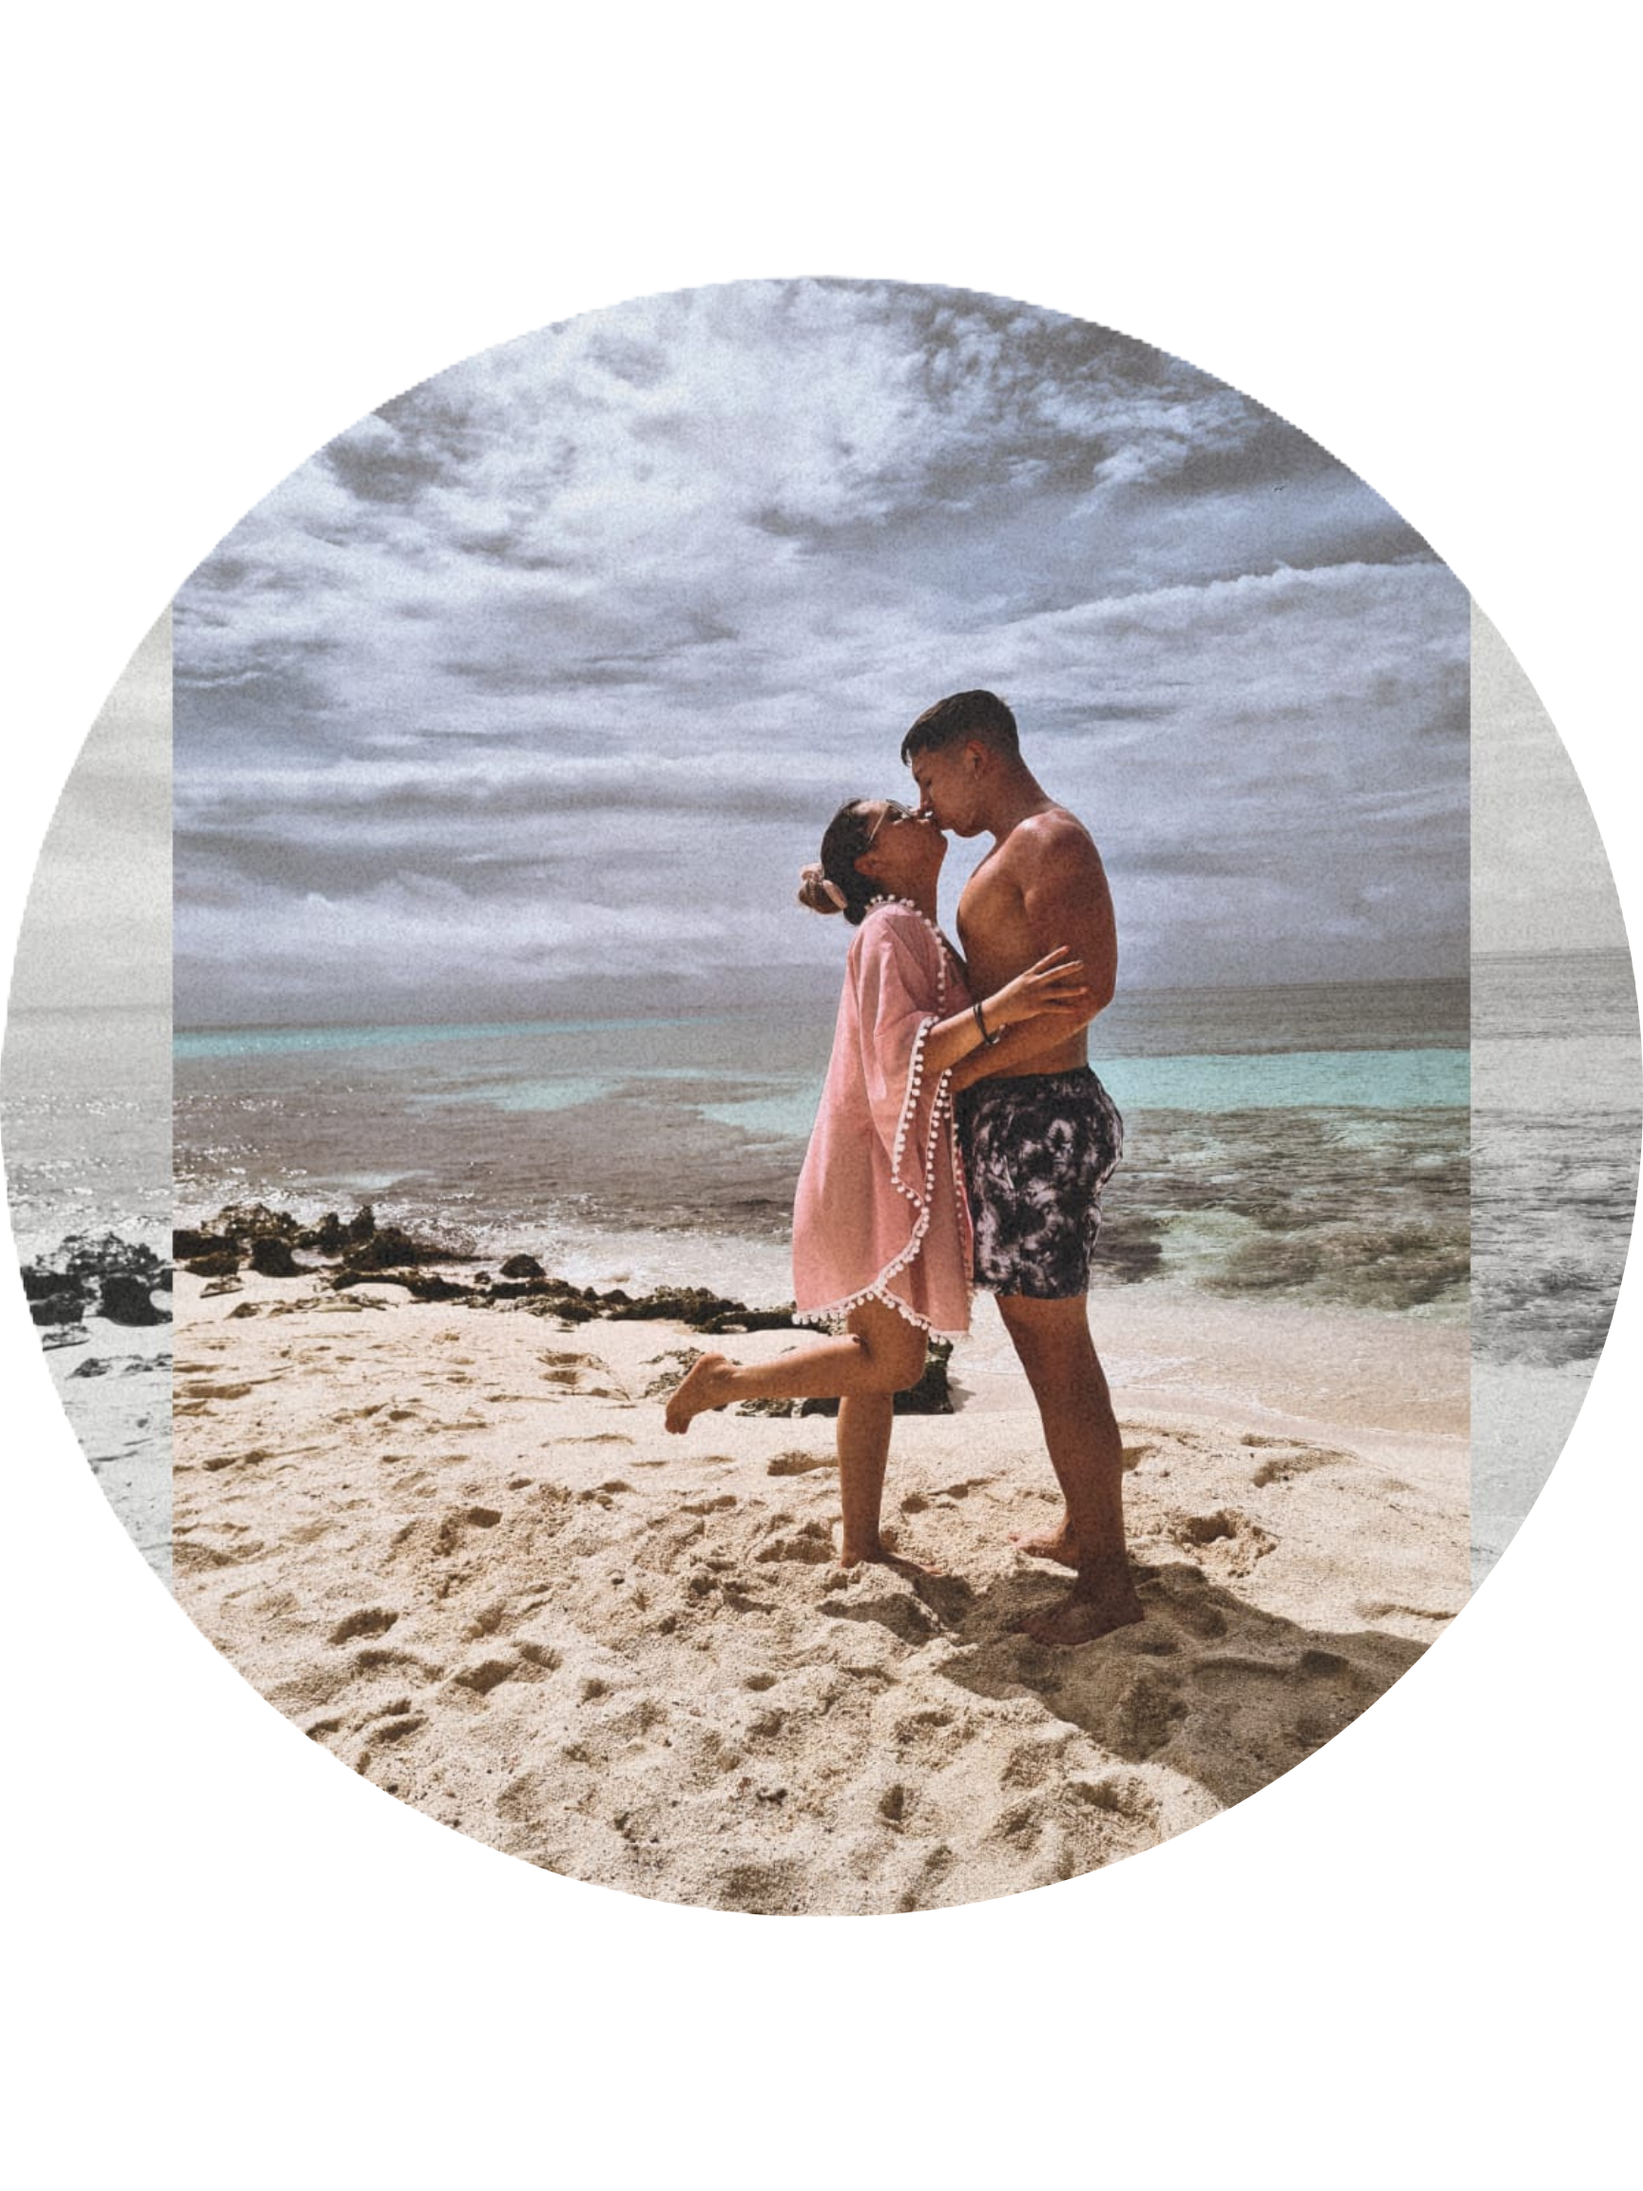
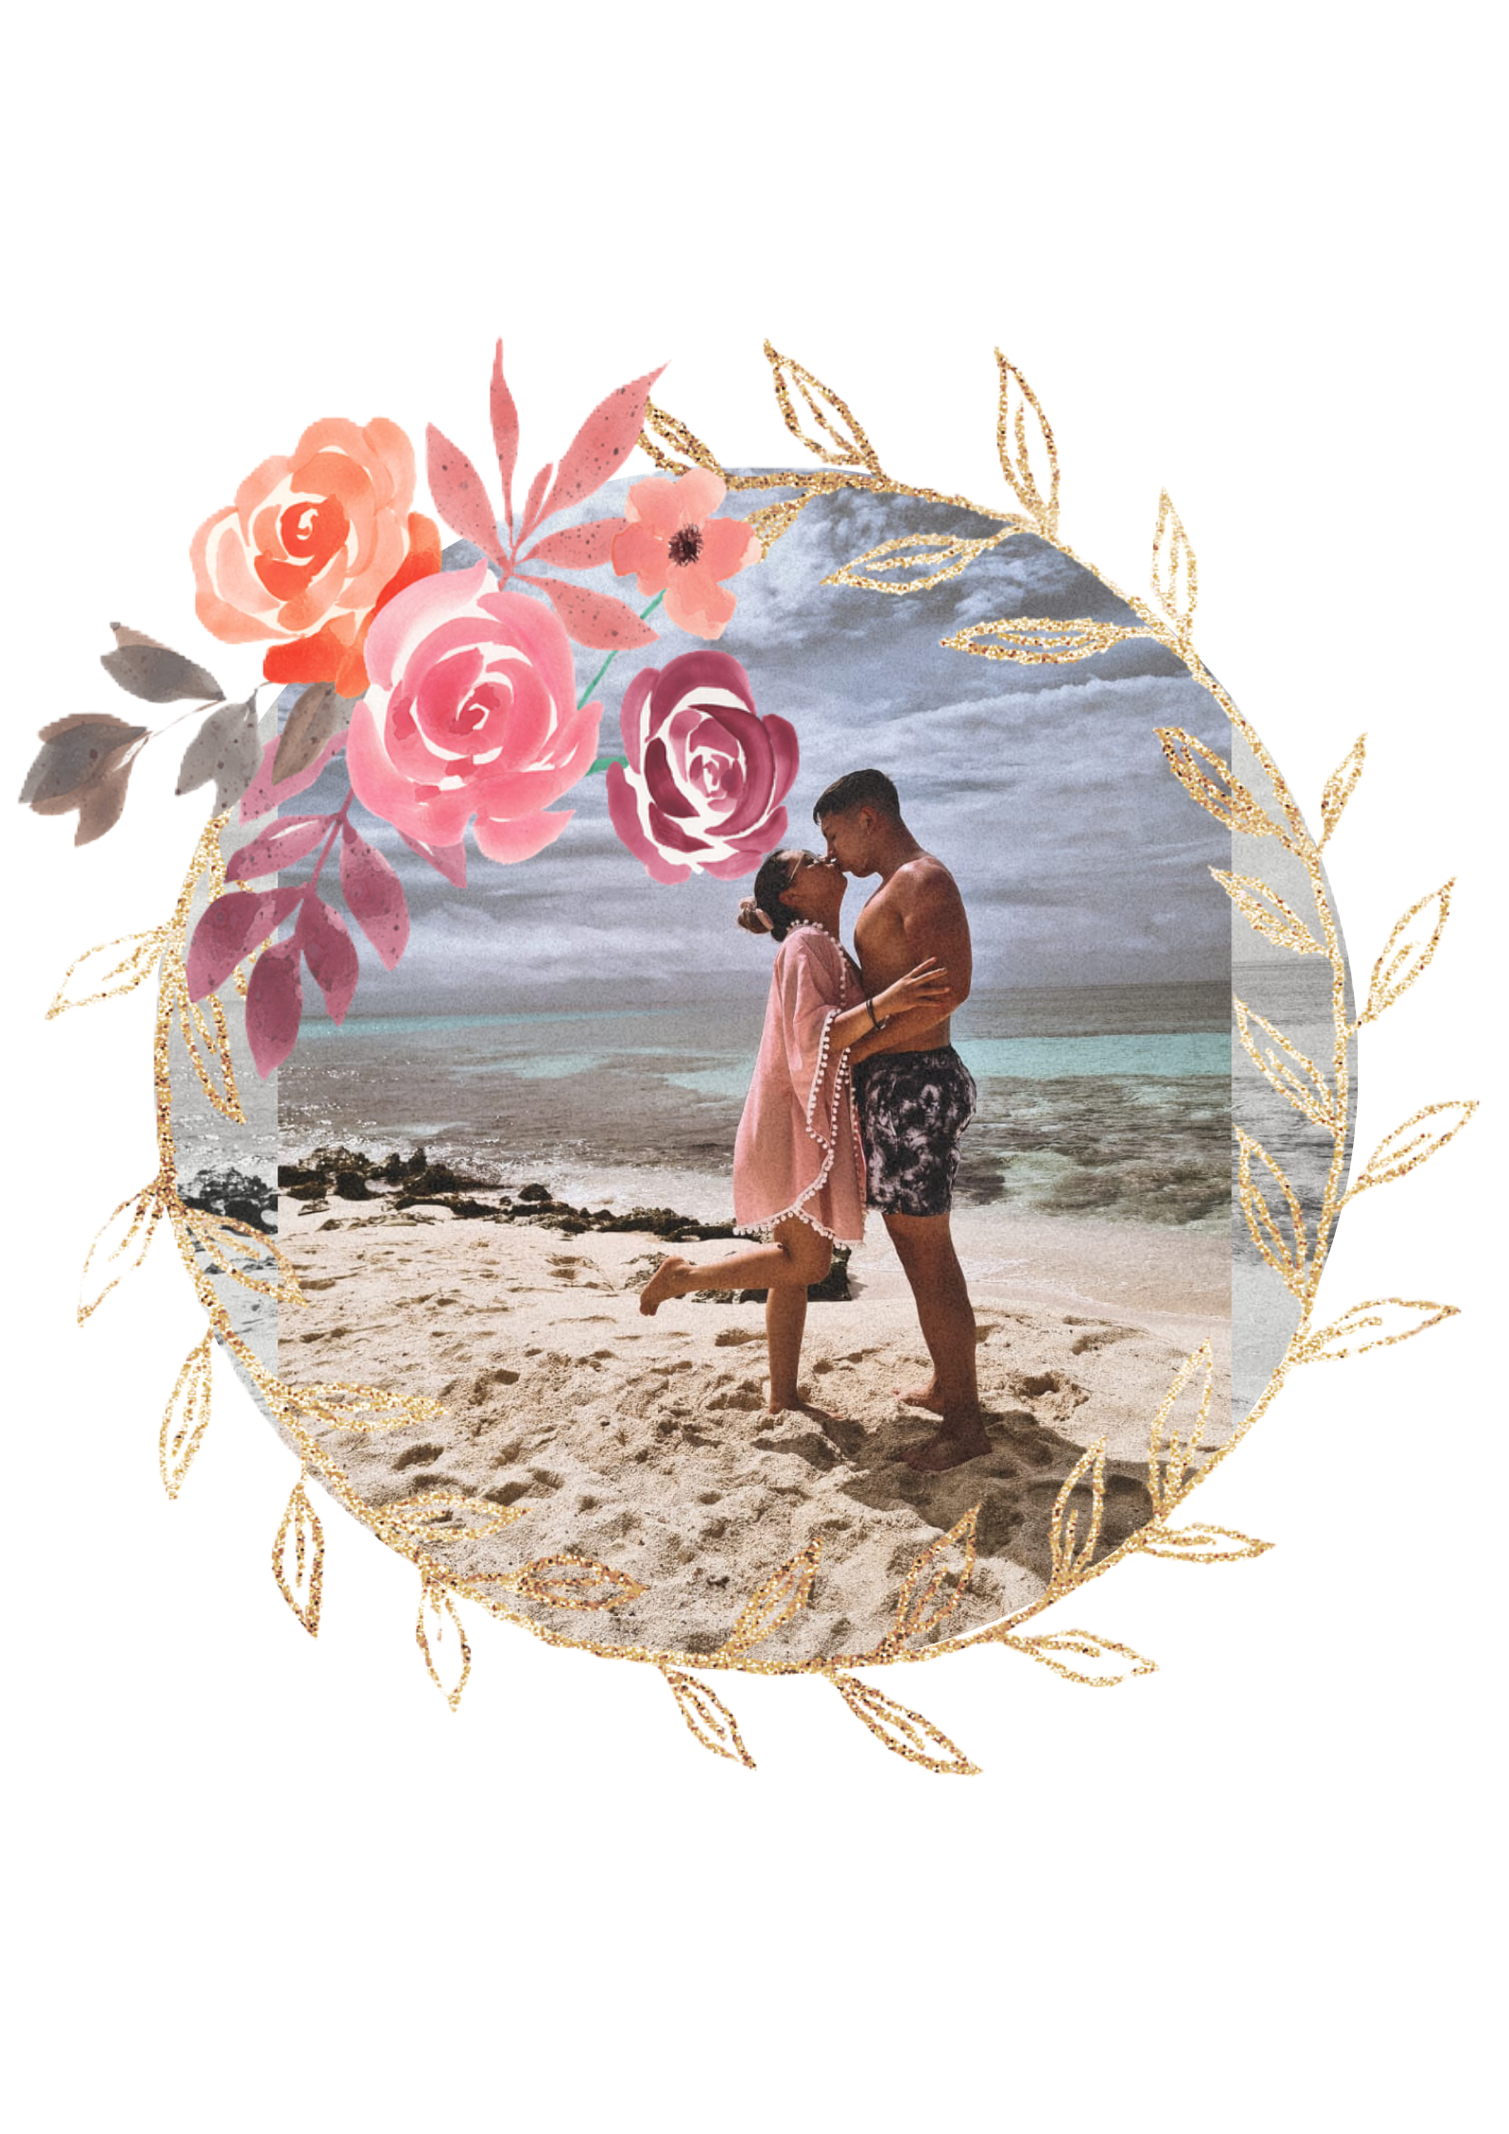
Version 1.8
Agregue texto y mas elementos

diff --git a/resources/css/style.css b/resources/css/style.css
@@ -15,6 +15,7 @@ html {
   text-align: center;
 }
 
+
 section {
   display: flex;
   flex-direction: column;
@@ -55,25 +56,24 @@ p2 {
 span {
   display: block;
 }
-
 /* ============= Components ========== */
 .button {
   background: none;
-  padding: 0.5rem 1rem;
+  padding: 0.5rem 2rem;
   text-decoration: none;
-  border: 1px solid black;
+  border: 2px solid rgb(174, 174, 174);
   border-radius: 25px;
   color: black;
   font-size: 1rem;
   display: flex;
   align-items: center;
-  gap: 0.25rem;
+  gap: 0.2rem;
   margin: 2rem;
   cursor: pointer;
 }
 
 .button:hover {
-  background-color: black;
+  background-color: rgb(255, 255, 255);
   color: #ff7f50;
 }
 
@@ -83,22 +83,20 @@ input {
   border-radius: 25px;
   font-size: 1rem;
   outline: none;
-  margin: 1rem 0;
+  margin: 0.5rem 0;
   box-shadow: inset 1px 1px 5px 0 #a5a5a5;
 }
 
-hr {
-  height: 100px;
-  background-image: url("../img/silueta-rosa.png");
-  background-repeat: no-repeat;
-  background-position: 50% 50%;
-  background-size: 100px;
-  border: none;
-}
+
 
 .emphasis {
   font-family: "Dancing Script", cursive;
   font-size: 3rem;
+}
+.emphasis2 {
+  font-family: "Dancing Script", cursive;
+  font-size: 3rem;
+  color: black;
 }
 
 .material-symbols-outlined.icon-big {
@@ -132,6 +130,8 @@ hr {
 
 /* ============= Main ========== */
 /* ============= Seccion Invitacion ========== */
+
+
 .invitacion-section {
   min-height: 50vh;
   background-image: url("../img/ramo.png");
@@ -148,7 +148,8 @@ hr {
   background-repeat: no-repeat;
   background-position-y: 50%;
   background-position-x: 50%;
-  padding-top: 90px;
+  padding-top: 50px;
+
 }
 .invitacion-section4 {
   min-height: 90vh;
@@ -168,12 +169,30 @@ hr {
   border: none;
   padding-bottom: 10px;
 }
+.invitacion-section5 {
+  padding-top: 10px;
+  height: 150px;
+  background-image: url("../icons/traje.png");
+  background-repeat: no-repeat;
+  background-position: 50% 50%;
+  background-size: 100px;
+  border: none;
+  padding-bottom: 10px;
+}
 
+
+.contenedor:hover .invitacion-section3 {
+  -webkit-transform:scale(1.3);transform:scale(1.3);
+}
+.contenedor {
+  overflow:hidden;
+}
 /*Seccion del carrusel*/
 
 .slider {
-  padding-top: 50px;
-  width: 40%;
+  padding-top: 0px;
+  background-size: contain;
+  width: 50%;
   margin: auto;
   overflow: hidden;
 }
@@ -192,7 +211,7 @@ hr {
 }
 
 .slider img {
-  width: 100%;
+  width: 90%;
 }
 
 @keyframes cambio {
@@ -218,12 +237,13 @@ hr {
   }
 
   75% {
-    margin-left: -200%;
+    margin-left: -100%;
   }
   100% {
-    margin-left: -200%;
+    margin-left: -100%;
   }
 }
+
 
 
 /* =========== famili info ========= */
@@ -298,6 +318,15 @@ hr {
   background-position: 50% 10%;
   margin: 1rem;
 }
+.custom-icon3 {
+  width: 10rem;
+  height: 17rem;
+  background-repeat: no-repeat;
+  background-size: 10rem;
+  background-position: 50% 10%;
+  margin: 1rem;
+  color: white;
+}
 
 .codigo-vestimenta-icon {
   background-image: url("../icons/codigo-de-vestimenta.png");
@@ -308,7 +337,11 @@ hr {
 .codigo-vestimenta-icon3 {
   background-image: url("../icons/Novios1.png");
 }
-/* =========== Sección Confirmación ========= */
+
+.codigo-vestimenta-icon4 {
+  background-image: url("../img/palomas.png");
+}
+/* =========== Sección reglos ========= */
 .lluvia-de-sobres-section {
   min-height: 60vh;
   background-color: #ff7f50;
@@ -327,8 +360,9 @@ hr {
   padding: 1rem 1rem 0;
   background-color: #ffffff;
   border-radius: 25px;
-  box-shadow: 1px 1px 15px 0 #a89e8e;
+  box-shadow: 1px 1px 25px 0 #ff7f50;
 }
+
 
 /* =========== Footer ========= */
 footer {

diff --git a/index.html b/index.html
@@ -12,6 +12,7 @@
     <meta name="og:description" content="Invitacion para Nuestra boda (R&V)" />
     <title>Nuestra boda</title>
 
+    <link rel="stylesheet" href="https://fonts.googleapis.com/css2?family=Material+Symbols+Outlined:opsz,wght,FILL,GRAD@20..48,100..700,0..1,-50..200" />
     <link rel="stylesheet" href="./resources/css/style.css" />
     <link rel="stylesheet" href="./resources/css/responsive.css" />
     <link rel="stylesheet" href="./resources/css/stars.css" />
@@ -42,8 +43,6 @@
         <h1>Roberto & Vanessa</h1>
       </section>
       <section class="invitacion-section3"></section>
-      <p>  </p>
-      <span></span>
       <!--Seccion de carrusel -->
       <div class="slider">
         <ul>
@@ -76,9 +75,34 @@
 
       <!-- Termina Seccion de carrusel -->
       <section class="invitacion-section2"></section>
-      <section class="info-de-familia-section"></section>
-      <section class="invitacion-section4"></section>
-      <section class="invitacion-section2"></section>
+      <section class="info-de-familia-section">
+        <h2 class="itinerario">Con la Bendición de nuestros padres:</h1>
+        <h2 class="emphasis"> Padres de la Novia:</h2>
+        <p class="h3">Lorem ipsum dolor sit amet</p>
+        <p class="h3">Lorem ipsum dolor sit amet</p>
+        <h2 class="emphasis"> Padres del  Novio:</h2>
+        <p class="h3">Lorem ipsum dolor sit amet</p>
+        <p class="h3">Lorem ipsum dolor sit amet</p>
+        <section class="codigo-vestimenta-section">
+            <i class="custom-icon3 codigo-vestimenta-icon4"></i>
+        </section>
+      </section>
+
+
+      
+      <section class="itinerario-section">
+        <h2>Estas invitado</h2>
+        <p>
+          ¡Ven a celebrar con nosotros el amor y la felicidad de nuestra unión en matrimonio,
+           estas cordialmente invitado a nuestra boda!
+        </p>
+        <p class="emphasis2">"Lorem ipsum dolor sit amet consectetur, adipisicing elit. Ullam dolore enim dolor"        - lorem ipsum</p>
+        <div class="itinerario">
+          <div class="horarios">
+          </div>
+        </div>
+      </section>
+      <section class="invitacion-section5"></section>
       <section class="countdown-section">
         <span class="emphasis">Solo faltan</span>
         <div class="heart">
@@ -132,11 +156,7 @@
         <i class="custom-icon codigo-vestimenta-icon"></i>
         <span>Casual</span>
       </section>
-      <section class="codigo-vestimenta-section">
-        <h2></h2>
-        <i class="custom-icon2 codigo-vestimenta-icon2"></i>
-        <span></span>
-      </section>
+
 
       <section class="lluvia-de-sobres-section">
         <h2>Tu compañía en este<br />día<br />es mi mejor obsequio</h2>
@@ -157,8 +177,8 @@
           <h2>Confirmación</h2>
           <input id="name" type="text" placeholder="Tu nombre" required />
           <button class="button" type="submit">
-            <i class="bi bi-whatsapp"></i>
-            Confirmar Asistencia
+            
+            Ver más Información
           </button>
         </form>
       </section>

diff --git a/resources/css/responsive.css b/resources/css/responsive.css
@@ -4,7 +4,7 @@
   }
 
   .confirmacion-section form {
-    padding: 1rem 3rem 0;
+    padding: 2rem 6rem 0;
   }
 }
 
@@ -19,7 +19,7 @@
   }
 
   .countdown-section .heart {
-    width: 43%;
+    width: 60%;
     margin: 1rem 0;
   }
 }

diff --git a/resources/js/index.js b/resources/js/index.js
@@ -49,4 +49,3 @@ function onLoad() {
     setInterval(onCountdownLoad, 1000);
 }
 
-$('.carousel').carousel()
